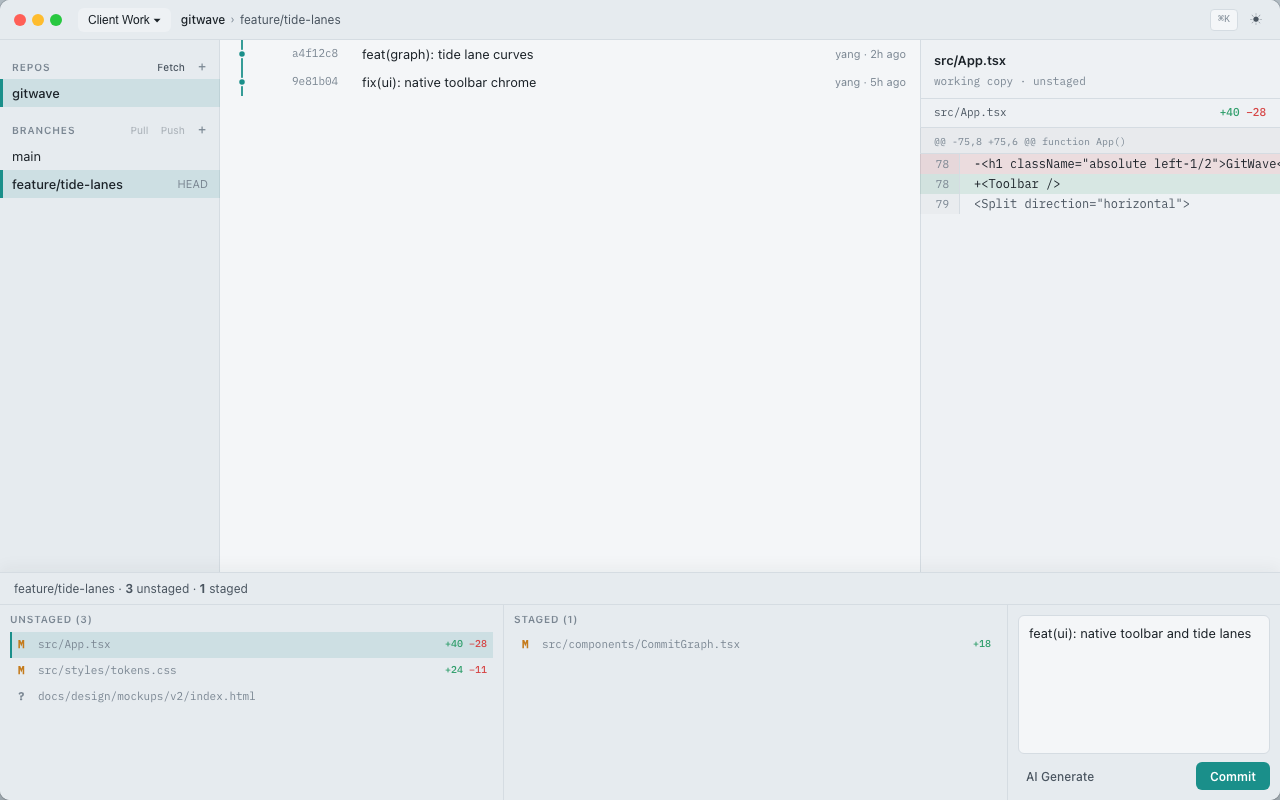
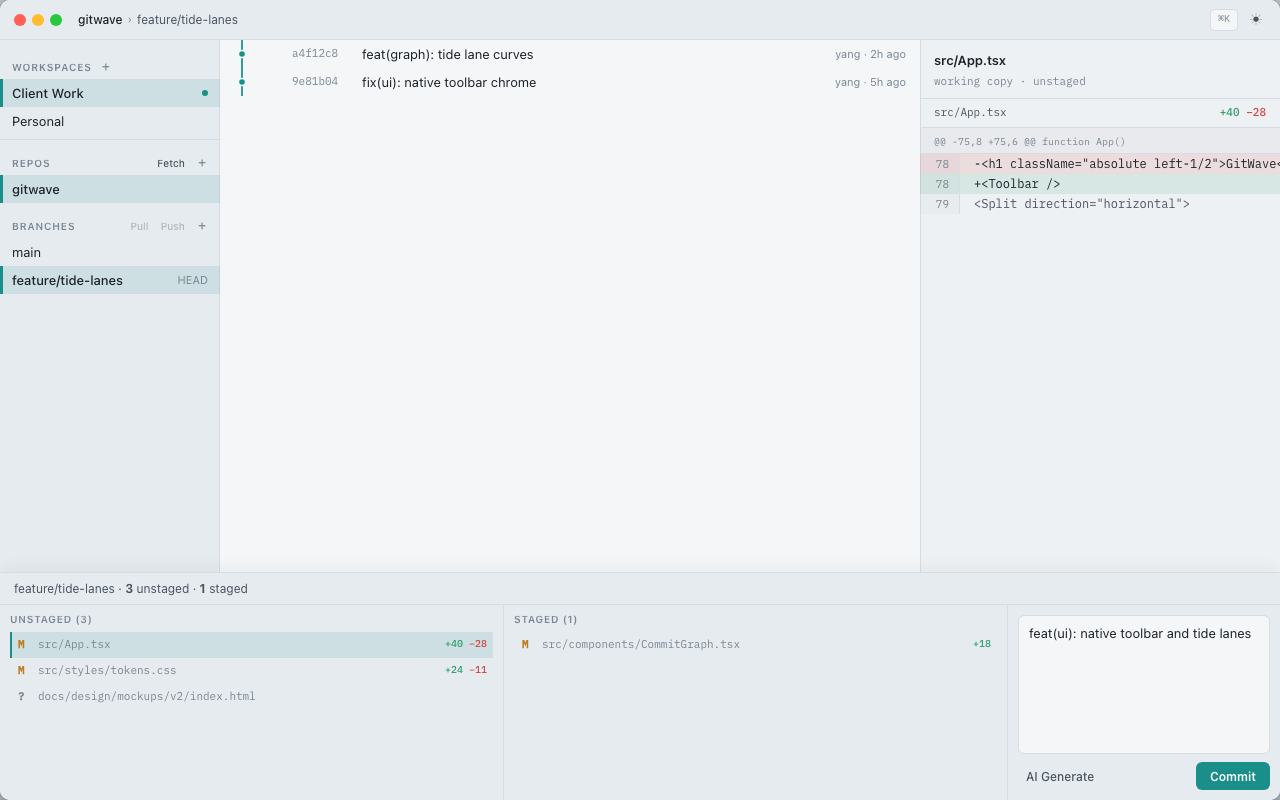
docs(design): move workspace switcher to sidebar list above repos
Show workspaces as a source list at the top of the sidebar for quick
switching; toolbar keeps only the repo › branch path readout.

Changed region(s): [[0.0, 0.0625, 0.1875, 0.2812], [0.0, 0.3125, 0.1875, 0.375], [0.0625, 0.0, 0.25, 0.0312]]

diff --git a/docs/design/mockups/v2/index.html b/docs/design/mockups/v2/index.html
@@ -184,27 +184,13 @@
         background: #28c840;
       }
 
-      .ws-pill {
-        display: inline-flex;
-        align-items: center;
-        gap: 4px;
-        height: 24px;
-        padding: 0 10px;
-        border-radius: 6px;
-        background: var(--elevated);
-        font-size: 12px;
-        font-weight: 500;
-        color: var(--ink);
-        border: none;
-        cursor: default;
+      .sec.ws-sec {
+        padding-bottom: 4px;
+        margin-bottom: 2px;
+        border-bottom: 1px solid var(--hair);
       }
 
-      .ws-pill.muted {
-        color: var(--muted);
-        font-weight: 400;
-      }
-
-      .path {
+      .toolbar .path-only {
         font-size: 12px;
         color: var(--ink-2);
         display: flex;
@@ -212,12 +198,12 @@
         gap: 5px;
       }
 
-      .path strong {
+      .path-only strong {
         color: var(--ink);
         font-weight: 500;
       }
 
-      .path .chev {
+      .path-only .chev {
         color: var(--muted);
         font-size: 10px;
       }
@@ -782,7 +768,7 @@
       <button type="button" data-go="dirty" aria-pressed="false">Light · Dirty</button>
       <button type="button" data-go="dark" aria-pressed="false">Dark · History</button>
       <button type="button" data-go="empty" aria-pressed="false">Empty</button>
-      <span class="hint">Source List · Sync 在 REPOS/BRANCHES · 材质分层 · Tide Lanes</span>
+      <span class="hint">Workspace 列表置顶 · Sync 在 REPOS/BRANCHES · Tide Lanes</span>
     </div>
 
     <div class="stage">
@@ -790,8 +776,7 @@
       <div class="window is-on" id="history">
         <header class="toolbar">
           <div class="lights" aria-hidden="true"><i></i><i></i><i></i></div>
-          <button class="ws-pill" type="button">Client Work ▾</button>
-          <div class="path">
+          <div class="path-only">
             <strong>gitwave</strong>
             <span class="chev">›</span>
             <span>main</span>
@@ -804,6 +789,15 @@
 
         <div class="body">
           <aside class="sidebar">
+            <div class="sec ws-sec">
+              <div class="sec-head">
+                <span class="sec-label">Workspaces</span>
+                <button class="sec-add" type="button" aria-label="New workspace">+</button>
+              </div>
+              <div class="src-row sel">Client Work <span class="dot"></span></div>
+              <div class="src-row">Personal</div>
+              <div class="src-row">Side Projects</div>
+            </div>
             <div class="sec">
               <div class="sec-head">
                 <span class="sec-label">Repos</span>
@@ -941,8 +935,7 @@
       <div class="window" id="dirty">
         <header class="toolbar">
           <div class="lights" aria-hidden="true"><i></i><i></i><i></i></div>
-          <button class="ws-pill" type="button">Client Work ▾</button>
-          <div class="path">
+          <div class="path-only">
             <strong>gitwave</strong>
             <span class="chev">›</span>
             <span>feature/tide-lanes</span>
@@ -954,6 +947,14 @@
         </header>
         <div class="body">
           <aside class="sidebar">
+            <div class="sec ws-sec">
+              <div class="sec-head">
+                <span class="sec-label">Workspaces</span>
+                <button class="sec-add" type="button">+</button>
+              </div>
+              <div class="src-row sel">Client Work <span class="dot"></span></div>
+              <div class="src-row">Personal</div>
+            </div>
             <div class="sec">
               <div class="sec-head">
                 <span class="sec-label">Repos</span>
@@ -1066,8 +1067,7 @@
       <div class="window dark" id="dark">
         <header class="toolbar">
           <div class="lights" aria-hidden="true"><i></i><i></i><i></i></div>
-          <button class="ws-pill" type="button">Client Work ▾</button>
-          <div class="path">
+          <div class="path-only">
             <strong>gitwave</strong>
             <span class="chev">›</span>
             <span>main</span>
@@ -1079,6 +1079,14 @@
         </header>
         <div class="body">
           <aside class="sidebar">
+            <div class="sec ws-sec">
+              <div class="sec-head">
+                <span class="sec-label">Workspaces</span>
+                <button class="sec-add" type="button">+</button>
+              </div>
+              <div class="src-row sel">Client Work <span class="dot"></span></div>
+              <div class="src-row">Personal</div>
+            </div>
             <div class="sec">
               <div class="sec-head">
                 <span class="sec-label">Repos</span>
@@ -1155,14 +1163,20 @@
       <div class="window" id="empty">
         <header class="toolbar">
           <div class="lights" aria-hidden="true"><i></i><i></i><i></i></div>
-          <button class="ws-pill muted" type="button">Select workspace ▾</button>
-          <div class="right">
+          <div class="right" style="margin-left: auto">
             <span class="kbd">⌘K</span>
             <button class="icon-btn" type="button">☀</button>
           </div>
         </header>
         <div class="body">
           <aside class="sidebar">
+            <div class="sec ws-sec">
+              <div class="sec-head">
+                <span class="sec-label">Workspaces</span>
+                <button class="sec-add" type="button">+</button>
+              </div>
+              <div class="src-row"><span class="trail" style="margin-left: 0">No workspaces yet</span></div>
+            </div>
             <div class="sec">
               <div class="sec-head">
                 <span class="sec-label">Repos</span>
@@ -1191,7 +1205,7 @@
                 </svg>
               </div>
               <h2>Select a workspace</h2>
-              <p>Create or choose a workspace in the toolbar to open repositories.</p>
+              <p>Choose or create a workspace in the sidebar to open repositories.</p>
               <button class="cta" type="button" style="margin-top: 6px">New workspace</button>
             </div>
           </section>

diff --git a/docs/design/00-overview.md b/docs/design/00-overview.md
@@ -58,12 +58,12 @@
 
 ```
 ┌─────────────────────────────────────────────────────────────────┐
-│  Toolbar (~40px)  动作工具栏，不要品牌站                         │
-│  [WS▾]  repo › branch                                        ⌘K  ☀/☾ │
+│  Toolbar (~40px)  repo › branch                              ⌘K  ☀ │
 ├────────────┬───────────────────────────────┬────────────────────┤
 │ Sidebar    │  History graph（主角）         │  Inspector         │
 │ (220px)    │  flex                         │  (~360px)          │
-│ repos      │  Tide Lanes + commit 行       │  详情 / diff       │
+│ workspaces │  Tide Lanes + commit 行       │  详情 / diff       │
+│ repos      │                               │                    │
 │ branches   │                               │                    │
 │ stash/tags │                               │                    │
 │ remotes /  │                               │                    │
@@ -73,8 +73,8 @@
 └─────────────────────────────────────────────────────────────────┘
 ```
 
-- **Toolbar**：Workspace 切换 + 当前 repo › branch 路径（只读）。无 Sync、无居中字标、无版本号。SSH 进溢出菜单。
-- **Sidebar（Source List）**：repos（含 **Fetch**）+ branches（含 **Pull / Push**）+ stash / tags / remotes / worktrees。Mist 底，与 Foam 画布有材质差。
+- **Toolbar**：当前 repo › branch 路径（只读）。无 Workspace 下拉、无 Sync、无居中字标。SSH 进溢出菜单。
+- **Sidebar（Source List）**：**workspaces 列表**（最顶）+ repos（含 Fetch）+ branches（含 Pull/Push）+ stash / tags / remotes / worktrees。Mist 底，与 Foam 画布有材质差。
 - **History graph**：永远是中栏主角，不是 Tab。
 - **Inspector**：选中 commit 或 working-copy 文件的详情 / diff。
 - **Working Copy Bar**：clean 32px / dirty 展开至 ~220px（文件列表从 Changes Tab 收回）。详见 `04-working-copy.md`。

diff --git a/docs/design/mockups/README.md b/docs/design/mockups/README.md
@@ -15,7 +15,7 @@
 
 浏览器打开 `v2/index.html`，顶栏切换四屏。
 
-**v2 核心变化**：Source List 全宽无圆角 · **Sync 下沉 REPOS/BRANCHES 标题栏** · pane inset shadow 材质分层 · Inspector diff gutter · WC Bar 上阴影。
+**v2 核心变化**：Workspace 列表置顶 · Source List 全宽无圆角 · Sync 在 REPOS/BRANCHES 标题栏 · pane 材质分层 · Inspector diff gutter。
 
 ## v1（历史参考）
 
